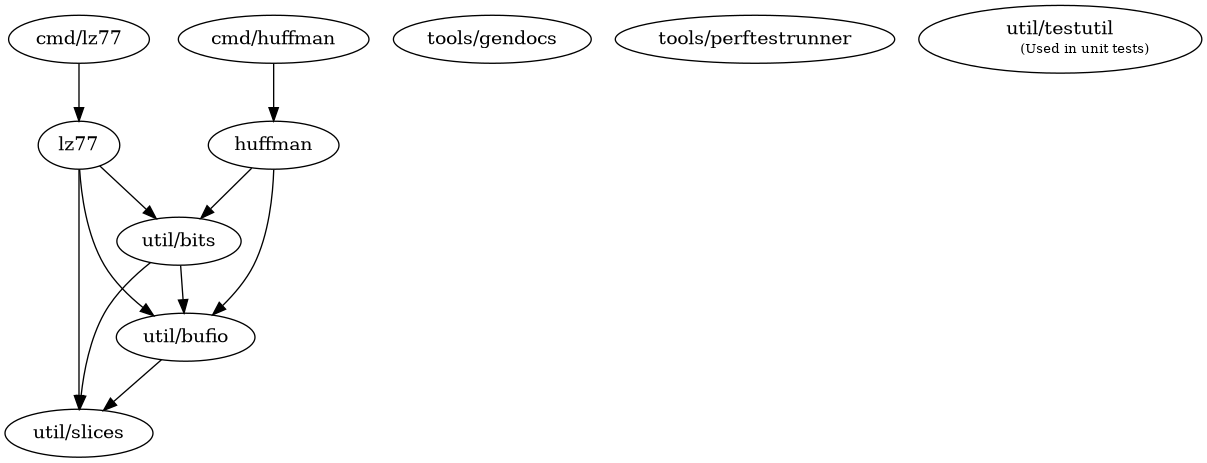
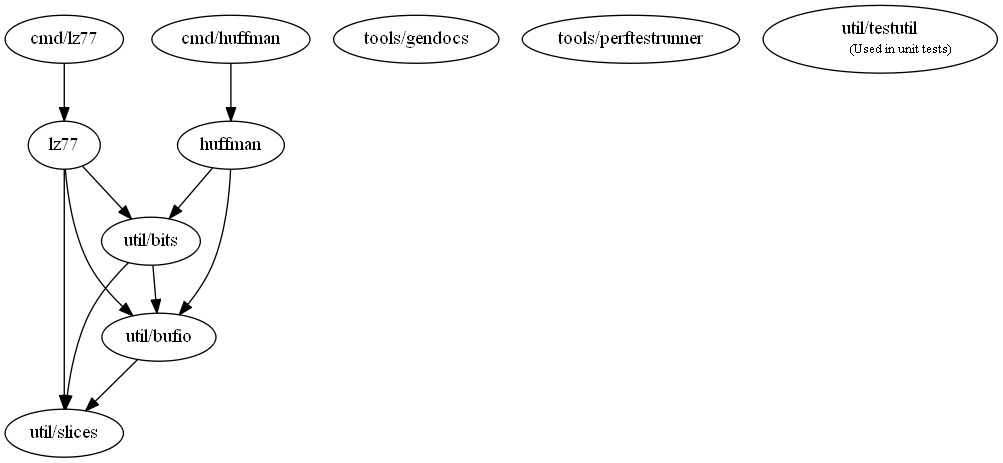
Update gendocs to support Graphviz graphs

diff --git a/tools/gendocs/main.go b/tools/gendocs/main.go
@@ -91,6 +91,18 @@ set term png size 700,480
 	return imageRef(graphName, path.Join(d.linkPrefix, graphFileName)), nil
 }
 
+func (d *perfData) Graphviz(graphName, commands string) (string, error) {
+	graphFileName := graphName + ".png"
+	graphFilePath := filepath.Join(d.graphDir, graphFileName)
+	cmd := exec.Command("dot", "-Tpng", "-o", graphFilePath)
+	cmd.Stdin = strings.NewReader(commands)
+	output, err := cmd.CombinedOutput()
+	if err != nil {
+		return "", fmt.Errorf("failed to run dot: %s", string(output))
+	}
+	return imageRef(graphName, path.Join(d.linkPrefix, graphFileName)), nil
+}
+
 func (d *perfData) generateDocument(t *template.Template, outFile string) error {
 	f, err := os.Create(outFile)
 	if err != nil {

diff --git a/docs/implementation.template.md b/docs/implementation.template.md
@@ -19,7 +19,25 @@
 
 ### Dependency graph for packages in the project
 
-![dependency graph](images/dependency-graph.png)
+{{ .Graphviz "dependency-graph" `
+digraph G {
+  "cmd/huffman" -> "huffman"
+  "cmd/lz77" -> "lz77"
+  "huffman" -> "util/bits"
+  "huffman" -> "util/bufio"
+  "lz77" -> "util/bits"
+  "lz77" -> "util/bufio"
+  "lz77" -> "util/slices"
+  "util/bits" -> "util/bufio"
+  "util/bits" -> "util/slices"
+  "util/bufio" -> "util/slices"
+  "tools/gendocs"
+  "tools/perftestrunner"
+  "util/testutil" [
+    label=<util/testutil<BR />
+        <FONT POINT-SIZE="10">(Used in unit tests)</FONT>>
+  ];
+}` }}
 
 ## Complexity analysis
 

diff --git a/docs/implementation.md b/docs/implementation.md
@@ -23,7 +23,7 @@
 
 ### Dependency graph for packages in the project
 
-![dependency graph](images/dependency-graph.png)
+![dependency-graph](images/dependency-graph.png)
 
 ## Complexity analysis
 
